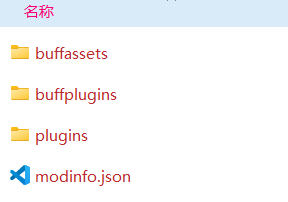
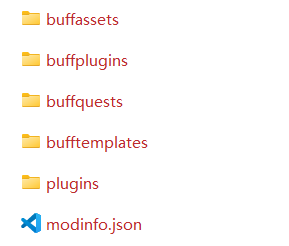
更新文档

diff --git a/docs/RandomBuff/BuffRegister.md b/docs/RandomBuff/BuffRegister.md
@@ -4,9 +4,11 @@
 
 <h2>方法</h2>
 
+<h3>注册增益</h3>
+
 ```csharp
 //注册新的增益
-//HookType 需继承自 IBuffHook
+//HookType 需要存在静态的HookOn函数或者LongLifeCycleHookOn函数
 public static void RegisterBuff<BuffType, DataType, HookType>(BuffID id);
 ```
 
@@ -15,13 +17,43 @@ public static void RegisterBuff<BuffType, DataType, HookType>(BuffID id);
 public static void RegisterBuff<BuffType, DataType>(BuffID id);
 ```
 
-<h2>接口</h2>
+<h3>注册条件</h3>
 
 ```csharp
-public interface IBuffHook
-{
-    //相当于OnModsInit()
-    //请将增益需要的Hook在这里应用
-    public void HookOn();
-}
+//注册新的条件
+//其中显示名称暂未使用
+//parentId为继承的id，会继承父类的冲突配置
+public static void RegisterCondition<BuffType, DataType>(ConditionID id, string displayName,bool isHidden, ConditionID parentId = null);
+```
+
+```csharp
+//注册新的条件
+//banlist为禁止项，注册的条件不会在banlist对应的模式被抽取（包括parentId对应的）
+public static void RegisterCondition<TConditionType>(ConditionID id, string displayName, ConditionID parentId = null,params GachaTemplateID[] banList)
+```
+
+<h3>注册抽卡模式</h3>
+
+```csharp
+// 注册新的抽卡模式
+// banlist为禁止的条件（和上文注册Condition只需要有一个ban条件存在即可）
+public static void RegisterGachaTemplate<TTemplateType>(GachaTemplateID id, params ConditionID[] banList);
+```
+
+<h3>注册使命</h3>
+
+```csharp
+// 注册新的使命
+// !!!必须要在IMissionEntry.RegisterMission内调用!!!
+public static void RegisterMission(MissionID ID, Mission mission);
+```
+
+```csharp
+// 注册新的任务种类
+public static void RegisterQuestType<TQuestCondition>();
+```
+
+```csharp
+// 注册新的装饰解锁要素
+public static void RegisterCosmeticUnlock<TCosmeticUnlock>();
 ```

diff --git a/docs/RandomBuff/任务文件.md b/docs/RandomBuff/任务文件.md
@@ -1,0 +1,64 @@
+<h1>任务(quest)</h1>
+
+RandomBuff的任务采用json格式
+
+以下是一个例子
+```json
+{
+    "Name":"Test Quest",
+    "Color":"ffffff",
+    "ID":"testquestid",
+    "Conditions":[
+        {
+            "Type":"MissionCondition",
+            "MissionID":"Druid"
+        }
+    ],
+    "UnlockItem":
+    {
+       "Cosmetic":[
+        "GlowingLeaf"
+       ]
+    }
+}
+```
+
+<h2>属性</h2>
+
+**Name** (字符串类型)
+```json
+"Name" : "你的quest的显示名称" 
+```
+
+**Color** (字符串类型) 
+```json
+"Color" : "你的quest的颜色的十六进制形式" 
+```
+
+**ID** (字符串类型)
+```json
+"ID" : "你的quest的独一无二的id" 
+```
+
+**Conditions** (数组类型)
+可以同时存在多个条件
+
+单一条件格式
+```json
+{
+    "Type":"MissionCondition",  //(条件名称)
+    "MissionID":"Druid"         //对应的条件属性（根据条件不同变化）
+}
+```
+
+**UnlockItem** (字典类型)
+可以同时存在多个解锁条目
+
+单一解锁条目格式
+```json
+"Cosmetic": //解锁条目类别
+[
+    "GlowingLeaf" //解锁条目ID
+    "xxxx",
+]
+```

diff --git a/docs/RandomBuff/BuffCore.md b/docs/RandomBuff/BuffCore.md
@@ -27,6 +27,11 @@ public static BuffDataType GetBuffData<BuffDataType>(this BuffID id);
 ```
 
 ```csharp
+//获取卡牌的静态属性
+public static BuffStaticData GetStaticData(this BuffID id)
+```
+
+```csharp
 //获取全部启用的Buff ID
 //如果当前没有存档则为null
 public List<BuffID> GetAllBuffIds();
@@ -35,5 +40,17 @@ public List<BuffID> GetAllBuffIds();
 ```csharp
 //判断当前是否是RandomBuff游戏模式
 public bool BuffMode(this RainWorld rainworld);
+```
+
+```csharp
+//删除或减少卡牌叠层
+public static bool UnstackBuff(this BuffID id);
+```
+
+```csharp
+//创建新的Buff。
+//在存在同IDbuff的情况下如果needstack == true，则会尝试增加卡牌叠层，反之则不进行任何处理
+public static IBuff CreateNewBuff(this BuffID id, bool needStack = true);
+public static TBuff CreateNewBuff<TBuff>(this BuffID id, bool needStack = true);
 ```
 

diff --git a/docs/RandomBuff/配置文件.md b/docs/RandomBuff/配置文件.md
@@ -8,9 +8,6 @@ Buff配置采用json文件
         "BuffName" : "Test",
         "Description" :"Just for test"
     },
-    "Custom":{
-        "TestConfig" : 1
-    },
     "Stackable" : true,
     "BuffID" : "TestBuff",
     "Color" : "FFFFFF"
@@ -61,18 +58,28 @@ Buff配置采用json文件
 
 **显示文本**  **至少要有一种语言**
 ```json
-"语言名称":
+"{语言名称}":
 {
     "BuffName" : "该语言下显示名称",
     "Description" :"该语言下显示简介"
 }
 ```
 
-**自定义配置属性**
+**冲突** (string数组) (可以是卡牌，可以是tag也可以是猫id)
 ```json
-"Custom":
-{
-    "自定义属性名称1" : 任意初始化值,
-    "自定义属性名称2" : 任意初始化值,
-}
+"Conflict":
+[
+    "Spear",
+    "FakeCreature",
+    "Some Tag"
+]
+```
+
+**标签** (string数组)
+```json
+"Tag":
+[
+    "Tag1",
+    "Tag2"
+]
 ```

diff --git a/docs/RandomBuff/BuffData.md b/docs/RandomBuff/BuffData.md
@@ -29,11 +29,6 @@ public virtual void UnStack();
 public abstract void DataLoaded(bool newData); 
 ```
 
-```csharp
-//获取配置属性（可以用下文数据的方式获取）
-//name是配置文件里Custom下的自定义属性名称（参见Buff的配置文件）
-public T GetConfig<T>(string name);
-```
 
 <h2>属性</h2>
 
@@ -59,16 +54,6 @@ public bool NeedDeletion { get; set; }
 public AnyType saveInWorld; //创建一个想要保存到猫的游戏存档的数据
 ```
 
-配置属性
-```csharp
-[CustomStaticConfig]
-public AnyType 自定义属性名称 { get; } //创建一个配置属性
-//自定义属性名称是配置文件里Custom下的定义的（参见Buff的配置文件）
-//这个属性不跟随猫存档变化而变化
-//会有一个单独的界面(类似mod界面)来进行配置
-
-///注意 ： 必须使用 {get;} 的形式！！！
-```
 
 
 

diff --git a/docs/RandomBuff/Buff.md b/docs/RandomBuff/Buff.md
@@ -29,9 +29,18 @@ public abstract void Destroy();
 // 强制触发增益效果，一般用于显示HUD反馈
 public void TriggerSelf(bool ignoreCheck = false)
 ```
-        
-<h2>属性</h2>
 
+```csharp
+// 创建临时卡牌池，会在轮回末销毁
+public TemporaryBuffPool GetTemporaryBuffPool();
+```
+
+```csharp
+// 获取绑定的按键
+// !!!注意请使用BuffInput的方法进行按键判断!!!
+public string GetBindKey();
+```
+<h2>属性</h2>
 
 
 ```csharp
@@ -57,6 +66,13 @@ public TData Data { get; }
 ```csharp
 //增益对应的实例（可能为空！）
 public static TBuff Instance { get; }
+```
+
+
+```csharp
+//卡牌的计时器，在构造方法中赋值后，不可为null
+//赋值后可以在任意时机修改值
+public BuffTimer MyTimer { get; set; }
 ```
 
 

diff --git a/docs/RandomBuff/mod配置.md b/docs/RandomBuff/mod配置.md
@@ -4,15 +4,13 @@
 
 ![mod文件夹](https://rwmoddingch.github.io/ChModdingWiki/assets/RandomBuff/modfolder.png)
 
-RandomBuff的文件夹结构如图。
+**RandomBuff的文件夹结构如图**
 
 ```
 buffassets文件夹下存放卡牌json文件，资源文件，以及卡面图片。
-github项目根目录的buffassets是内置的资源文件夹，记得复制到mod目录。
-（如果有更新也记得更新这个拜托了orz）
+buffquests文件夹下存放任务的json文件
 ```
 
 ```
 buffplugins文件夹下存放卡牌所对应的dll。
-（项目内置的有builtinBuff.dll记得放置到目录）
 ```
